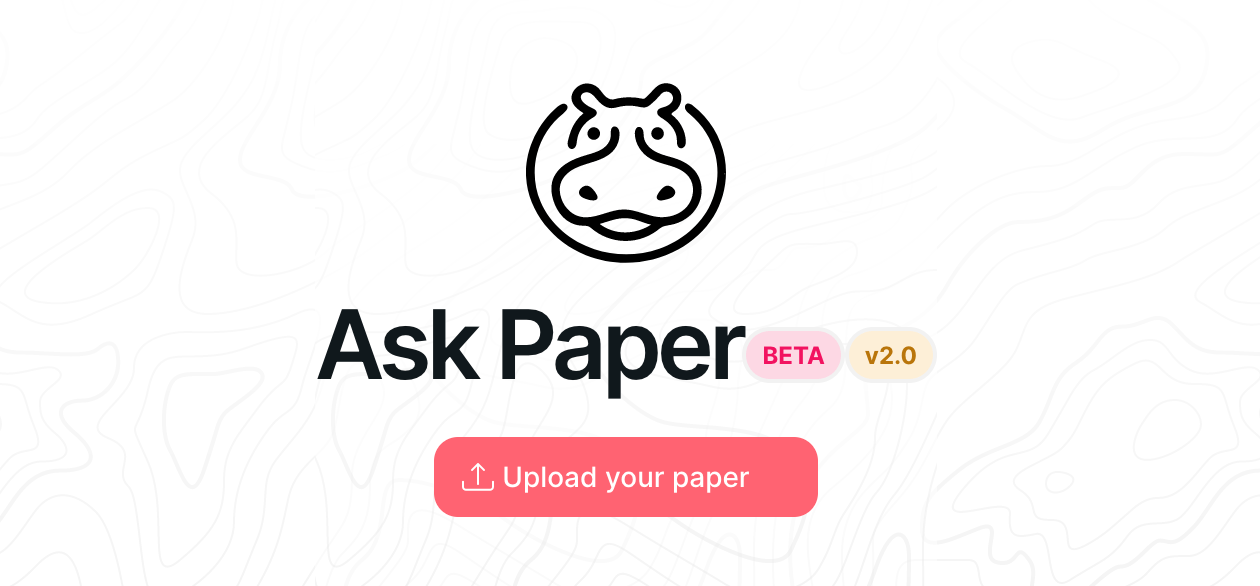
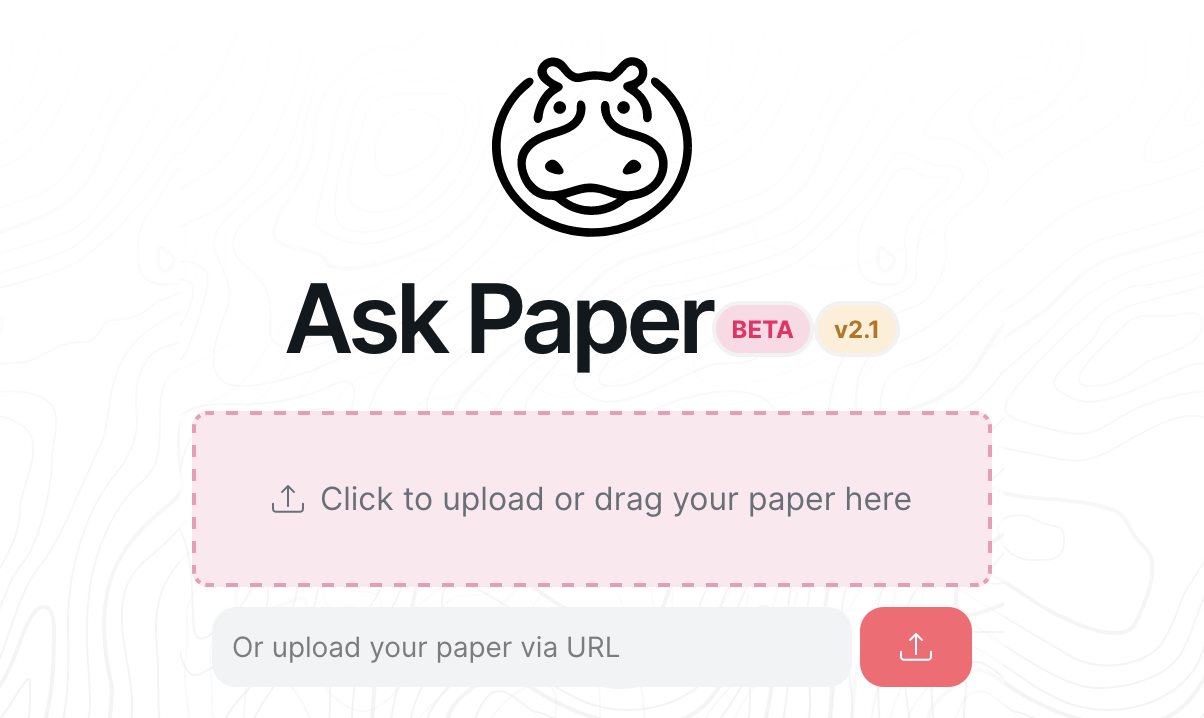
Upgrade to v2.1

diff --git a/frontend/pages/index.tsx b/frontend/pages/index.tsx
@@ -145,7 +145,7 @@ const Home = () => {
           BETA
         </Badge>
         <Badge color="warning" variant="flat">
-          v2.0
+          v2.1
         </Badge>
       </Flex>
       <PaperUploader onFinish={(paper, pdf) => {
